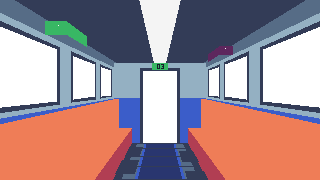
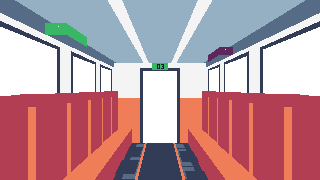
Ajout des différents "biomes" oui ça me fait rire

diff --git a/DOCUMENTATION.md b/DOCUMENTATION.md
@@ -164,10 +164,10 @@ Point de fuite : **x = 160, y = 90** (centre exact de la toile).
 
 | Élément | Coordonnées sur la toile 320 x 180 |
 |---|---|
-| Mur du fond | x 114 à 206, y 64 à 142 |
+| Mur du fond | x 114 à 206, y 64 à 142 (son haut suit la forme du plafond du wagon : plat, voûté, surélevé...) |
 | Ouverture de la porte | x 144 à 176, y 72 à 142 |
 | Banquettes | le long des parois, du bas de l'écran jusqu'au mur du fond |
-| Fenêtres | sur les parois, au-dessus des banquettes, trouées (transparentes) |
+| Fenêtres | sur les parois, au-dessus des banquettes, trouées (transparentes). Nombre, taille et forme libres selon le wagon |
 | Panneau numéroté | x 152 à 167, y 63 à 69, au-dessus de la porte (numéro du wagon sur deux chiffres) |
 | Personnages | dessinés entiers, pieds visibles : le bas de l'écran ne doit couper personne |
 
@@ -191,6 +191,8 @@ Palette commune : **Sweetie 16** (16 couleurs). Tout le monde l'importe dans son
 #29366f  #3b5dc9  #41a6f6  #73eff7
 #f4f4f4  #94b0c2  #566c86  #333c57
 ```
+
+Chaque wagon a sa propre **architecture** (époque du train : plafond, parois, fenêtres, sièges, éclairage). Ce qui ne change jamais d'un wagon à l'autre : le point de fuite, l'ouverture de la porte, le panneau numéroté et la place des personnages sur les banquettes.
 
 Chaque wagon peut ajouter au maximum **3 couleurs propres** pour son ambiance. Elles sont notées dans le tableau des wagons (section 6).
 
@@ -272,12 +274,12 @@ Chaque wagon peut ajouter au maximum **3 couleurs propres** pour son ambiance. E
 
 L'ordre de ce tableau est l'ordre du train.
 
-| N° | Dossier | Histoire | Couleurs propres | Responsable | État |
-|---|---|---|---|---|---|
-| 01 | `wagon-01` | Placeholder (Lorem ipsum) | aucune | à définir | placeholder |
-| 02 | `wagon-02` | Placeholder (Dolor sit amet) | aucune | à définir | placeholder |
-| 03 | `wagon-03` | Placeholder (Consectetur) | aucune | à définir | placeholder |
-| 04 | `wagon-04` | Placeholder (Adipiscing elit) | aucune | à définir | placeholder |
+| N° | Dossier | Architecture (placeholder) | Histoire | Couleurs propres | Responsable | État |
+|---|---|---|---|---|---|---|
+| 01 | `wagon-01` | Voiture en bois à lanterneau (vers 1900) : toit surélevé, lampes suspendues, banquettes à lattes, petites fenêtres | Placeholder (Lorem ipsum) | aucune | à définir | placeholder |
+| 02 | `wagon-02` | Voiture de luxe (années 1930) : boiseries sombres, filets dorés, velours capitonné, rideaux, appliques | Placeholder (Dolor sit amet) | aucune | à définir | placeholder |
+| 03 | `wagon-03` | Voiture Corail (années 1980) : plafond plat à néons, sièges orange à appui-tête | Placeholder (Consectetur) | aucune | à définir | placeholder |
+| 04 | `wagon-04` | Train du futur : plafond arrondi, bandes lumineuses cyan, grandes baies, sièges bleus | Placeholder (Adipiscing elit) | aucune | à définir | placeholder |
 
 Ajouter ou retirer un wagon = ajouter ou retirer une `<section class="wagon">` dans le HTML et son dossier d'images.
 
